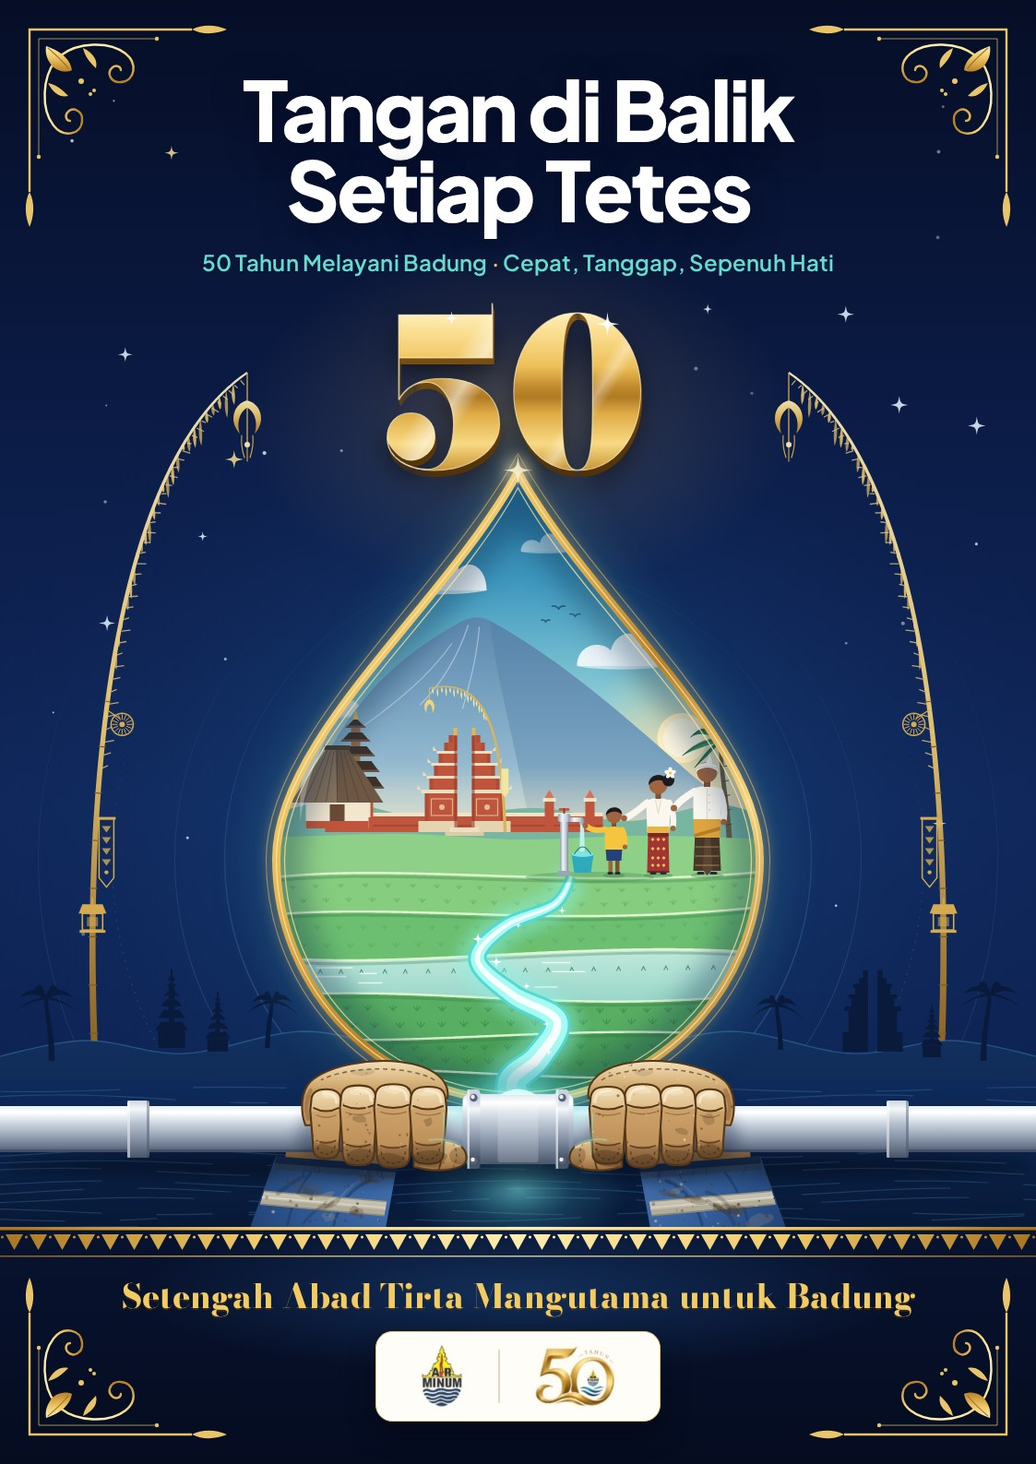
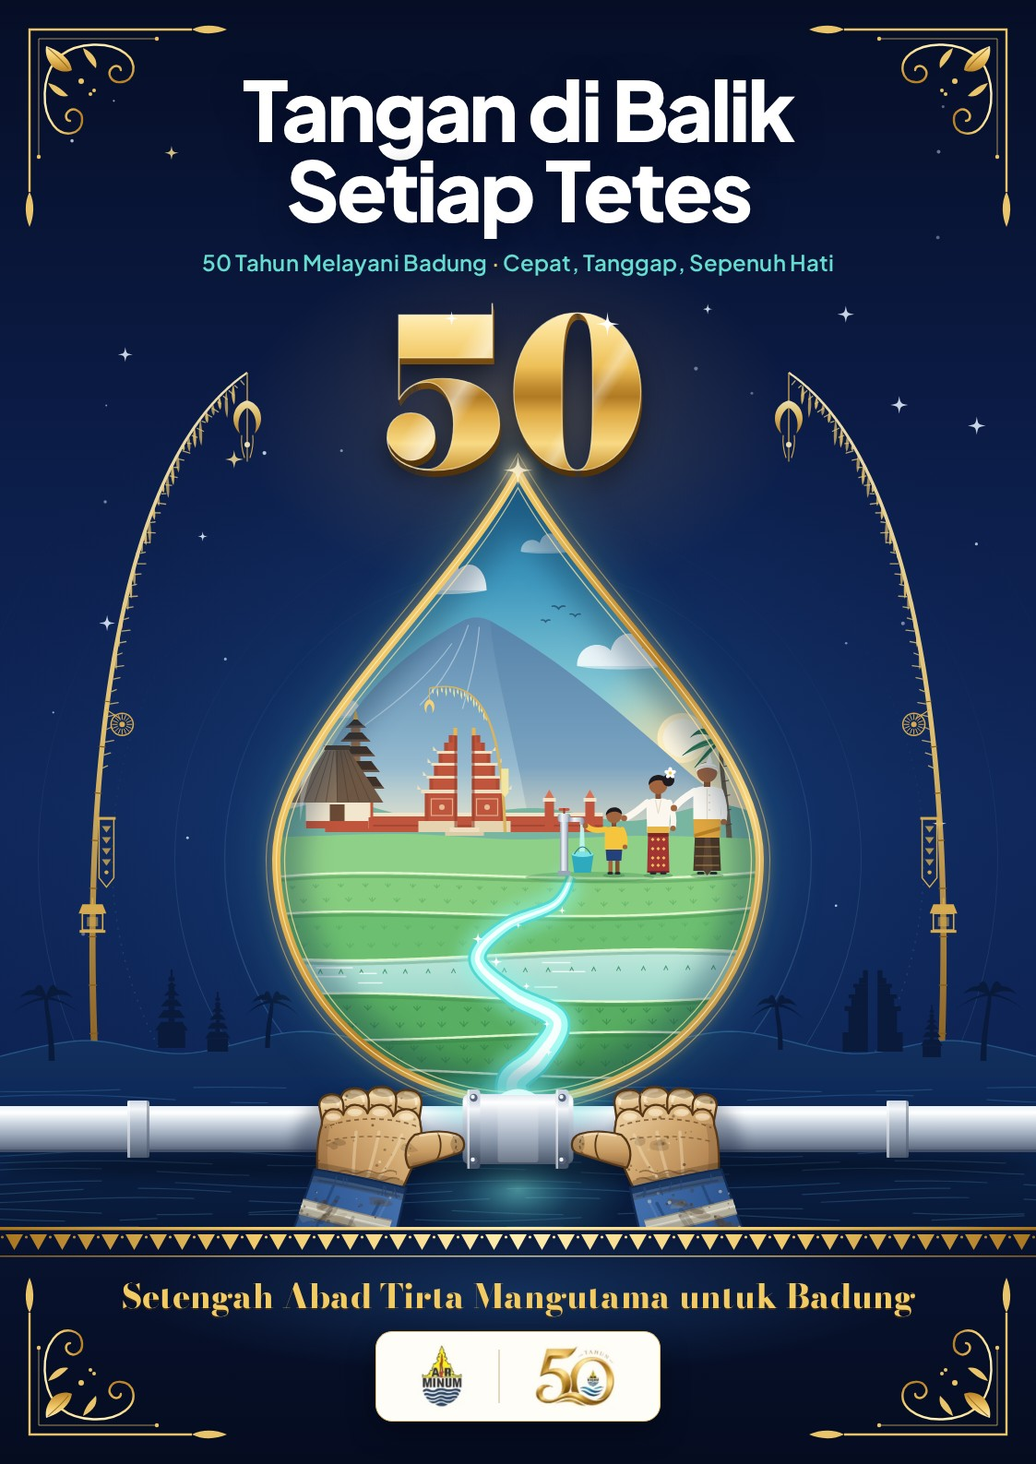
Join the poster's forearms and hands into one limb
The wrists were hidden behind the pipe, so the fists and sleeves read
as separate pieces. The arms now come up in front of the pipe: the
sleeve runs into the glove at the wrist, the back of the hand faces the
viewer, the fingers curl over the top of the pipe and the thumb lies
along it toward the coupling. Hands are slightly larger.

Claude-Session: https://claude.ai/code/session_01WRN3XAMEniDTP2xmXoDQVZ

Changed region(s): [[0.5298, 0.7101, 0.748, 0.8645], [0.2493, 0.7101, 0.4675, 0.8645]]

diff --git a/poster-50-tahun/tools/build-art.js b/poster-50-tahun/tools/build-art.js
@@ -614,11 +614,12 @@ add(`<circle cx="${DROP.cx}" cy="${DROP.tip - 2}" r="14" fill="#FFF1C4" opacity=
 }
 
 // ================================================================ HANDS
-// Pose after the user's grip references: a fist around the pipe seen from the front (knuckles on top, fingers wrapped
-// toward the viewer in three segments, joint lines following the curve of the fingers, thumb tucked under the pipe),
-// forearm dropping behind the pipe. Worn tan leather work gloves and a grimy uniform sleeve.
-// Defined for the hand right of the coupling (thumb toward -x); the left one is mirrored, with its own dirt.
-const HAND = { hx: 152, hs: 1.4 };
+// POV grip, so forearm, wrist and hand read as one limb: the sleeve comes up from the bottom edge, the gloved hand
+// leaves the sleeve at the wrist, the back of the hand faces the viewer, the fingers curl over the top of the pipe
+// (knuckles, finger backs, rounded middle knuckles) and the thumb runs along the pipe toward the coupling.
+// Worn tan leather work gloves, grimy uniform sleeve. Defined for the hand right of the coupling (thumb toward -x);
+// the left one is mirrored with its own dirt.
+const HAND = { hx: 160, hs: 1.55 };
 const LTH = { hi: '#F2DEB8', light: '#E1C18E', mid: '#C99D64', dark: '#9C7143', deep: '#6F4D2A', ink: '#553718', grime: '#5A4330' };
 function blobPath(cx, cy, rx, ry, rnd, k = 9, jit = 0.55, rot = 0) {
   const P = [];
@@ -635,133 +636,123 @@ function blobPath(cx, cy, rx, ry, rnd, k = 9, jit = 0.55, rot = 0) {
   return d + ' Z';
 }
 const PR = PIPE.r / HAND.hs; // pipe edges in the hand's local units
-const SLEEVE_D = 'M-15,28 L79,21 L116,124 L4,132 Z';
-const THUMB_D = `M-28,${n(PR - 8)} C-40,${n(PR - 11)} -53,${n(PR - 10)} -62,${n(PR - 6)} C-70,${n(PR - 2)} -71,${n(PR + 8)} -64,${n(PR + 11)} C-55,${n(PR + 15)} -40,${n(PR + 15)} -28,${n(PR + 11)} Z`;
-const DOME_D = 'M-54,-24 C-56,-37 -44,-49 -18,-52 C8,-55 38,-49 52,-37 C60,-29 60,-13 56,-3 L44,-3 Z';
+// finger backs rising from the knuckles and curling over the pipe: [base x, width, base y, middle-knuckle top y, tilt°]
 const FINGERS = [
-  // cx, width, knuckle top, PIP (top/front edge of the pipe), DIP, tip (tucked under the pipe)
-  [40, 23, -PR - 13, -PR + 3.5, PR - 8, PR + 5],   // pinky
-  [15, 27, -PR - 16, -PR + 1.5, PR - 5, PR + 10],  // ring
-  [-12, 28, -PR - 17, -PR + 1, PR - 4, PR + 12],   // middle
-  [-39, 27, -PR - 15, -PR + 2, PR - 6, PR + 9],    // index
+  [-25, 18.5, -8, -27.5, -5],     // index
+  [-7.5, 19.5, -10, -29.5, -1.5], // middle
+  [10.5, 18.5, -9, -28.5, 2.5],   // ring
+  [26, 15.5, -6, -24.5, 7],       // pinky
 ];
-function fingerPath([cx, w, top, pip, dip, tip]) {
-  const hw = w / 2, tw = hw - 1.2, rt = hw * 0.8, rb = tw * 0.9;
-  return `M${n(cx - hw)},${n(top + rt)} C${n(cx - hw)},${n(top + 2)} ${n(cx - hw + 5)},${n(top)} ${n(cx)},${n(top)} C${n(cx + hw - 5)},${n(top)} ${n(cx + hw)},${n(top + 2)} ${n(cx + hw)},${n(top + rt)} ` +
-    `L${n(cx + hw + 0.8)},${n(pip)} L${n(cx + tw)},${n(dip)} L${n(cx + tw)},${n(tip - rb)} ` +
-    `C${n(cx + tw)},${n(tip - 1)} ${n(cx + tw - 5)},${n(tip)} ${n(cx)},${n(tip)} C${n(cx - tw + 5)},${n(tip)} ${n(cx - tw)},${n(tip - 1)} ${n(cx - tw)},${n(tip - rb)} ` +
-    `L${n(cx - tw)},${n(dip)} L${n(cx - hw - 0.8)},${n(pip)} Z`;
+function fingerD([bx, w, by, top]) {
+  const r = w / 2;
+  return `M${n(bx - r)},${n(by)} L${n(bx - r - 0.6)},${n(top + r)} C${n(bx - r - 0.6)},${n(top + 2)} ${n(bx - r + 4)},${n(top)} ${n(bx)},${n(top)} ` +
+    `C${n(bx + r - 4)},${n(top)} ${n(bx + r + 0.6)},${n(top + 2)} ${n(bx + r + 0.6)},${n(top + r)} L${n(bx + r)},${n(by)} Z`;
 }
+const fingerT = (fg) => `rotate(${fg[4]} ${fg[0]} ${fg[2]})`;
+// back of the hand: knuckle bumps on top, tapering to the wrist, which is set a little outward to meet the forearm
+const BACK_D = 'M-35,-3 C-35,-9 -31,-14 -25,-14 C-20,-14 -17,-11 -16,-9 C-15,-14 -11,-17 -7,-17 C-2,-17 1,-14 2,-11 ' +
+  'C3,-15 7,-17 11,-17 C15,-17 18,-14 19,-10 C20,-13 23,-14 26,-14 C31,-14 34,-9 34,-3 ' +
+  'C38,8 38,24 36,44 L-20,46 C-27,33 -34,16 -35.5,4 C-35.8,1 -35.6,-1 -35,-3 Z';
+const THUMB_D = 'M-31,4 C-41,1.5 -52,1 -60,3.5 C-67,6 -67.5,15 -61,17 C-52,19.5 -40,24 -27,27 C-23,19 -24,10 -31,4 Z';
+// sleeve: frayed hem across the wrist, running down and out along the forearm
+const SLEEVE_D = 'M-25,41 C-8,37 20,31 39,28 C47,52 64,98 84,150 L8,158 C-6,120 -18,74 -25,41 Z';
 defs.push(`<clipPath id="cSleeveL"><path d="${SLEEVE_D}"/></clipPath>`);
-defs.push(`<clipPath id="cFistL"><path d="${DOME_D}"/><path d="${THUMB_D}"/>${FINGERS.map((fg) => `<path d="${fingerPath(fg)}"/>`).join('')}</clipPath>`);
+defs.push(`<clipPath id="cGloveL"><path d="${BACK_D}"/><path d="${THUMB_D}"/>${FINGERS.map((fg) => `<path d="${fingerD(fg)}" transform="${fingerT(fg)}"/>`).join('')}</clipPath>`);
 
 function handParts() {
-  const ink = LTH.ink;
-  // ---- leather glove cuff and the uniform sleeve (behind the pipe)
-  lg('gGloveCuff', [[0, LTH.mid], [1, LTH.dark]], 0, 0, 1, 0);
-  lg('gSleeve', [[0, '#4270AD'], [0.55, '#305A96'], [1, '#213F72']], 0, 0, 1, 0.3);
-  let arm = `<path d="M-6,12 L70,8 L73,34 L-4,38 Z" fill="url(#gGloveCuff)"/>`;
-  arm += `<path d="M-4,30 L71,26" fill="none" stroke="${LTH.deep}" stroke-width="1" stroke-dasharray="2.6 2.2" opacity="0.8"/>`;
-  arm += `<path d="${SLEEVE_D}" fill="url(#gSleeve)"/>`;
-  // fabric folds
-  arm += `<g fill="none" stroke-linecap="round"><path d="M6,40 C22,46 30,58 34,74" stroke="#172F55" stroke-width="2.2" opacity="0.45"/><path d="M52,34 C60,44 66,56 70,74" stroke="#172F55" stroke-width="2" opacity="0.4"/><path d="M10,38 C24,44 32,54 37,68" stroke="#6A8CC0" stroke-width="1.6" opacity="0.35"/></g>`;
-  // dulled reflective band
-  arm += `<path d="M-7,56 L88,48 L91,58 L-5,67 Z" fill="#C4C0AF"/><path d="M-6,61.5 L89.5,53" stroke="#DEDBCD" stroke-width="2"/><path d="M-7,56 L88,48 M-5,67 L91,58" stroke="#8F8B7E" stroke-width="1.1"/>`;
-  // worn, darker hem with loose threads
-  arm += `<path d="M-15,28 L79,21 L79.6,26.5 L-14.4,33.5 Z" fill="#162C50" opacity="0.85"/>`;
+  const ink = LTH.ink, g = [];
+  defs.push(`<linearGradient id="gBackHand" gradientUnits="userSpaceOnUse" x1="-34" y1="-16" x2="30" y2="44"><stop offset="0" stop-color="#EDD3A6"/><stop offset="0.45" stop-color="#D1A871"/><stop offset="0.8" stop-color="#B78956"/><stop offset="1" stop-color="#94693D"/></linearGradient>`);
+  defs.push(`<linearGradient id="gFingerBack" gradientUnits="userSpaceOnUse" x1="0" y1="-36" x2="0" y2="-6"><stop offset="0" stop-color="#F3DFBA"/><stop offset="0.35" stop-color="#E0BF8B"/><stop offset="1" stop-color="#C39862"/></linearGradient>`);
+  defs.push(`<linearGradient id="gThumbB" gradientUnits="userSpaceOnUse" x1="0" y1="0" x2="0" y2="28"><stop offset="0" stop-color="#E8CA98"/><stop offset="0.55" stop-color="#C99D64"/><stop offset="1" stop-color="#94693D"/></linearGradient>`);
+  lg('gSleeve', [[0, '#4673B0'], [0.5, '#325C98'], [1, '#203F72']], 0, 0, 1, 0.25);
 
-  // ---- fist (in front of the pipe)
-  const f = [];
-  defs.push(`<linearGradient id="gDome" gradientUnits="userSpaceOnUse" x1="0" y1="-52" x2="0" y2="-26"><stop offset="0" stop-color="${LTH.hi}"/><stop offset="0.55" stop-color="#D9B77F"/><stop offset="1" stop-color="#C0925B"/></linearGradient>`);
-  defs.push(`<linearGradient id="gThumbF" gradientUnits="userSpaceOnUse" x1="0" y1="${n(PR - 10)}" x2="0" y2="${n(PR + 16)}"><stop offset="0" stop-color="#E3C491"/><stop offset="0.55" stop-color="#C39760"/><stop offset="1" stop-color="#8A6038"/></linearGradient>`);
-  f.push(`<path d="${DOME_D}" fill="url(#gDome)" stroke="${ink}" stroke-width="1.5" stroke-linejoin="round"/>`);
-  f.push(`<path d="M-44,-38 C-26,-49 20,-50 44,-38" fill="none" stroke="${LTH.deep}" stroke-width="1.1" stroke-dasharray="3.5 2.8" opacity="0.8"/>`);
-  f.push(`<path d="M52,-30 C56,-22 56,-14 54,-8" fill="none" stroke="${LTH.deep}" stroke-width="3" stroke-linecap="round" opacity="0.35"/>`);
-  // thumb tucked under the pipe; its tip shows below the index finger, pointing at the coupling
-  const ty = PR;
-  f.push(`<path d="${THUMB_D}" fill="url(#gThumbF)" stroke="${ink}" stroke-width="1.5" stroke-linejoin="round"/>`);
-  f.push(`<path d="M-30,${n(ty - 7)} C-34,${n(ty - 2)} -34,${n(ty + 6)} -30,${n(ty + 10)}" fill="none" stroke="${LTH.deep}" stroke-width="5" stroke-linecap="round" opacity="0.35"/>`);
-  f.push(`<path d="M-47,${n(ty - 10)} C-50,${n(ty - 4)} -50,${n(ty + 7)} -47,${n(ty + 14)}" fill="none" stroke="${ink}" stroke-width="1.2" stroke-linecap="round"/>`);
-  f.push(`<path d="M-58,${n(ty - 7)} C-62,${n(ty - 2)} -62,${n(ty + 7)} -58,${n(ty + 12)}" fill="none" stroke="${LTH.deep}" stroke-width="1" stroke-dasharray="2.4 2" opacity="0.8"/>`);
-  f.push(`<path d="M-34,${n(ty - 8)} C-45,${n(ty - 10)} -56,${n(ty - 9)} -64,${n(ty - 4)}" fill="none" stroke="#FBEBCB" stroke-width="1.8" stroke-linecap="round" opacity="0.6"/>`);
-  // fingers: top segment over the pipe, middle segment on its face, tip curling under (grimiest)
+  // fingers (drawn first; the knuckles of the hand overlap their bases)
   FINGERS.forEach((fg, i) => {
-    const [cx, w, top, pip, dip, tip] = fg;
-    const id = 'gFg' + i;
-    const t = (y) => n((y - top) / (tip - top));
-    defs.push(`<linearGradient id="${id}" gradientUnits="userSpaceOnUse" x1="0" y1="${top}" x2="0" y2="${tip}">` +
-      `<stop offset="0" stop-color="#F3DFBA"/><stop offset="${t(pip - 1.5)}" stop-color="#E0C08C"/>` +
-      `<stop offset="${t(pip + 1)}" stop-color="#CDA26A"/><stop offset="${t(dip - 1.5)}" stop-color="#BE915A"/>` +
-      `<stop offset="${t(dip + 1)}" stop-color="#9E7447"/><stop offset="1" stop-color="#6E4D2C"/></linearGradient>`);
-    const hw = w / 2, tw = hw - 1.2, rt = hw * 0.8;
-    f.push(`<path d="${fingerPath(fg)}" fill="url(#${id})" stroke="${ink}" stroke-width="1.5" stroke-linejoin="round"/>`);
-    // joint creases follow each finger's curve, so across the fist they form an arc rather than parallel lines
-    f.push(`<path d="M${n(cx - hw + 2)},${n(pip - 2)} Q${n(cx)},${n(pip + 3)} ${n(cx + hw - 2)},${n(pip - 2)}" fill="none" stroke="${ink}" stroke-width="1.4" stroke-linecap="round"/>`);
-    f.push(`<path d="M${n(cx - hw + 4)},${n(pip + 3.5)} Q${n(cx)},${n(pip + 7)} ${n(cx + hw - 4)},${n(pip + 3.5)}" fill="none" stroke="${LTH.deep}" stroke-width="0.9" stroke-linecap="round" opacity="0.55"/>`);
-    f.push(`<path d="M${n(cx - tw + 3)},${n(dip - 1)} Q${n(cx)},${n(dip + 2.5)} ${n(cx + tw - 3)},${n(dip - 1)}" fill="none" stroke="${ink}" stroke-width="1.2" stroke-linecap="round" opacity="0.85"/>`);
-    // leather sheen on the knuckle (matte, so softer than before) and a fingertip seam
-    f.push(`<path d="M${n(cx - hw + 3.5)},${n(top + rt + 1)} C${n(cx - hw + 3.5)},${n(top + 4)} ${n(cx - 3)},${n(top + 2.8)} ${n(cx + 2)},${n(top + 2.8)}" fill="none" stroke="#FFF4DC" stroke-width="2.2" stroke-linecap="round" opacity="0.6"/>`);
-    f.push(`<path d="M${n(cx - tw + 3.5)},${n(tip - tw * 0.9 - 1)} A${n(tw - 3.5)},${n(tw - 3.5)} 0 0 0 ${n(cx + tw - 3.5)},${n(tip - tw * 0.9 - 1)}" fill="none" stroke="#4A3016" stroke-width="1" stroke-dasharray="2.4 2" opacity="0.75"/>`);
+    const [bx, w, by, top] = fg, r = w / 2;
+    const t = (y) => n((y - top) / (by - top));
+    defs.push(`<linearGradient id="gFb${i}" gradientUnits="userSpaceOnUse" x1="0" y1="${top}" x2="0" y2="${by}"><stop offset="0" stop-color="#A97D4B"/><stop offset="${t(top + 3)}" stop-color="#D9B780"/><stop offset="${t(top + 6)}" stop-color="#F1DBB2"/><stop offset="${t(top + 11)}" stop-color="#DDBA86"/><stop offset="1" stop-color="#C39862"/></linearGradient>`);
+    g.push(`<g transform="${fingerT(fg)}">` +
+      `<path d="${fingerD(fg)}" fill="url(#gFb${i})" stroke="${ink}" stroke-width="1.5" stroke-linejoin="round"/>` +
+      // middle-knuckle wrinkles and the soft light on the knuckle itself
+      `<path d="M${n(bx - r + 3)},${n(top + r + 3)} Q${n(bx)},${n(top + r + 6.5)} ${n(bx + r - 3)},${n(top + r + 3)}" fill="none" stroke="${ink}" stroke-width="1.2" stroke-linecap="round" opacity="0.85"/>` +
+      `<path d="M${n(bx - r + 4.5)},${n(top + r + 6.5)} Q${n(bx)},${n(top + r + 9)} ${n(bx + r - 4.5)},${n(top + r + 6.5)}" fill="none" stroke="${LTH.deep}" stroke-width="0.9" stroke-linecap="round" opacity="0.55"/>` +
+      `<path d="M${n(bx - r + 3)},${n(top + r)} C${n(bx - r + 3)},${n(top + 3.5)} ${n(bx - 2)},${n(top + 2.5)} ${n(bx + 2)},${n(top + 2.5)}" fill="none" stroke="#FFF4DC" stroke-width="2" stroke-linecap="round" opacity="0.6"/>` +
+      `</g>`);
   });
-  // cool rim light from the coupling glow on the inner edges
-  f.push(`<path d="M-51,-12 L-52,${n(PR + 2)}" stroke="#8FF3EA" stroke-width="1.6" stroke-linecap="round" opacity="0.35"/><path d="M-40,${n(PR - 9.5)} C-50,${n(PR - 11)} -58,${n(PR - 9)} -64,${n(PR - 5.5)}" fill="none" stroke="#8FF3EA" stroke-width="1.4" stroke-linecap="round" opacity="0.4"/>`);
-  return { arm, fist: f.join('') };
+  // back of the hand
+  g.push(`<path d="${BACK_D}" fill="url(#gBackHand)" stroke="${ink}" stroke-width="1.5" stroke-linejoin="round"/>`);
+  // knuckle light, knuckle seam, tendon ridges, shade toward the pinky side
+  [[-25, -11], [-7, -14], [11, -14], [26, -11]].forEach(([x, y]) => g.push(`<ellipse cx="${x}" cy="${y + 2.5}" rx="5.2" ry="2.6" fill="#FBEACB" opacity="0.55"/>`));
+  g.push(`<path d="M-32,-2 C-14,-9 14,-9 32,-1" fill="none" stroke="${LTH.deep}" stroke-width="1.1" stroke-dasharray="3.2 2.6" opacity="0.8"/>`);
+  g.push(`<g fill="none" stroke="#F6E3BE" stroke-width="2.2" stroke-linecap="round" opacity="0.4"><path d="M-22,4 C-18,16 -12,26 -6,34"/><path d="M-6,2 C-4,14 -1,24 2,34"/><path d="M10,2 C11,14 12,24 12,34"/></g>`);
+  g.push(`<path d="M34,-3 C38,8 38,24 36,44 L27,44 C31,26 31,10 28,-4 Z" fill="${LTH.deep}" opacity="0.25"/>`);
+  // back panel seam and wrist shirring where the glove tucks into the sleeve
+  g.push(`<path d="M-30,8 C-12,4 16,4 33,9" fill="none" stroke="${LTH.deep}" stroke-width="1" stroke-dasharray="3.2 2.6" opacity="0.65"/>`);
+  g.push(`<g fill="none" stroke="${LTH.deep}" stroke-width="1.1" stroke-linecap="round" opacity="0.6"><path d="M-18,30 q4,-2 8,0 t8,0 t8,0 t8,0 t8,0 t8,-1"/><path d="M-20,35 q4,-2 8,0 t8,0 t8,0 t8,0 t8,0 t8,-1 t6,-1"/></g>`);
+  // thumb along the pipe, pointing at the coupling
+  g.push(`<path d="${THUMB_D}" fill="url(#gThumbB)" stroke="${ink}" stroke-width="1.5" stroke-linejoin="round"/>`);
+  g.push(`<path d="M-47,2.5 C-50,8 -50,16 -46,22" fill="none" stroke="${ink}" stroke-width="1.2" stroke-linecap="round"/>`);
+  g.push(`<path d="M-57,3.5 C-61,8 -61,13.5 -57.5,17.5" fill="none" stroke="${LTH.deep}" stroke-width="1" stroke-dasharray="2.4 2" opacity="0.8"/>`);
+  g.push(`<path d="M-35,4.5 C-45,2.5 -54,2.5 -61,5.5" fill="none" stroke="#FBEBCB" stroke-width="1.8" stroke-linecap="round" opacity="0.6"/>`);
+  g.push(`<path d="M-30,24.5 C-42,22.5 -52,19.5 -59,17" fill="none" stroke="${LTH.deep}" stroke-width="2" stroke-linecap="round" opacity="0.35"/>`);
+  // shadow the sleeve casts on the glove just above the hem
+  g.push(`<path d="M-24,40 C-8,36 20,30 38,27 L38.5,23 C20,26 -8,32 -23,36 Z" fill="#3B2814" opacity="0.28"/>`);
+  const glove = g.join('');
+
+  // sleeve
+  let sl = `<path d="${SLEEVE_D}" fill="url(#gSleeve)" stroke="#132A4E" stroke-width="1.5" stroke-linejoin="round"/>`;
+  sl += `<g fill="none" stroke-linecap="round"><path d="M-6,52 C4,70 12,90 18,112" stroke="#15305A" stroke-width="2.2" opacity="0.45"/><path d="M26,40 C36,62 44,86 50,108" stroke="#15305A" stroke-width="2" opacity="0.4"/><path d="M-12,50 C-2,68 5,86 10,104" stroke="#6E90C4" stroke-width="1.6" opacity="0.35"/><path d="M-20,47 C-6,44 18,39 36,36" stroke="#15305A" stroke-width="1.6" opacity="0.4"/></g>`;
+  // dulled reflective band wrapping the sleeve
+  sl += `<path d="M-15,64 C4,60 28,54 47,49 L50,59 C31,64 7,70 -12,74 Z" fill="#C4C0AF"/><path d="M-13.5,69 C5,65 29,59 48.5,54" fill="none" stroke="#DEDBCD" stroke-width="1.8"/><path d="M-15,64 C4,60 28,54 47,49 M-12,74 C7,70 31,64 50,59" fill="none" stroke="#8F8B7E" stroke-width="1.1"/>`;
+  // worn, darker hem edge
+  sl += `<path d="M-25,41 C-8,37 20,31 39,28 L40,32.5 C21,35.5 -7,41.5 -24,45.5 Z" fill="#132A4E" opacity="0.8"/>`;
+  return { glove, sleeve: sl };
 }
 const HANDPARTS = handParts();
 
 // dirt differs per hand so the mirrored pair doesn't look stamped
 function handDirt(seed) {
   const r = rng(seed);
-  // sleeve: mud and dust smudges, grease marks, speckles, loose threads at the hem
+  // sleeve: mud and dust smudges, grease streaks, speckles, loose threads at the hem
   let a = '';
   for (let i = 0; i < 6; i++) {
-    const cx = lerp(-2, 86, r()), cy = lerp(36, 74, r());
+    const t = r(), u = r();
+    const cx = lerp(-14, 40, u) + t * 30, cy = lerp(48, 78, t);
     const rx = 4 + r() * 7, ry = 2.5 + r() * 4, rot = (r() - 0.5) * 1.2;
     const col = r() < 0.7 ? '#5B4631' : '#A5977E';
     a += `<path d="${blobPath(cx, cy, rx, ry, r, 9, 0.6, rot)}" fill="${col}" opacity="${n(0.22 + r() * 0.16)}"/>`;
     if (col === '#5B4631') a += `<path d="${blobPath(cx + (r() - 0.5) * 3, cy + (r() - 0.5) * 2, rx * 0.5, ry * 0.5, r, 8, 0.6, rot)}" fill="#4A3826" opacity="${n(0.25 + r() * 0.15)}"/>`;
   }
   for (let i = 0; i < 2; i++) {
-    const x0 = lerp(0, 70, r()), y0 = lerp(34, 60, r());
-    a += `<path d="M${n(x0)},${n(y0)} c${n(6 + r() * 6)},${n(2 + r() * 3)} ${n(12 + r() * 6)},${n(6 + r() * 4)} ${n(16 + r() * 8)},${n(12 + r() * 6)}" fill="none" stroke="#1E1C20" stroke-width="${n(2 + r() * 1.5)}" stroke-linecap="round" opacity="0.22"/>`;
+    const x0 = lerp(-12, 30, r()), y0 = lerp(46, 64, r());
+    a += `<path d="M${n(x0)},${n(y0)} c${n(3 + r() * 4)},${n(5 + r() * 3)} ${n(7 + r() * 4)},${n(10 + r() * 4)} ${n(9 + r() * 6)},${n(16 + r() * 6)}" fill="none" stroke="#1E1C20" stroke-width="${n(2 + r() * 1.5)}" stroke-linecap="round" opacity="0.22"/>`;
   }
-  for (let i = 0; i < 34; i++) a += `<circle cx="${n(lerp(-6, 92, r()))}" cy="${n(lerp(32, 76, r()))}" r="${n(0.4 + r() * 1.1)}" fill="${r() < 0.7 ? '#4A3826' : '#CFC4AE'}" opacity="${n(0.3 + r() * 0.4)}"/>`;
-  // grime along the band edges and at the hem
-  a += `<path d="M-6,61 L89,53 L91,58 L-5,67 Z" fill="#6B5A43" opacity="0.2"/>`;
-  a += `<path d="M-14,33 L79.5,26 L80,31 L-13.5,38.5 Z" fill="#3F3122" opacity="0.28"/>`;
+  for (let i = 0; i < 34; i++) { const t = r(); a += `<circle cx="${n(lerp(-20, 44, r()) + t * 30)}" cy="${n(lerp(42, 80, t))}" r="${n(0.4 + r() * 1.1)}" fill="${r() < 0.7 ? '#4A3826' : '#CFC4AE'}" opacity="${n(0.3 + r() * 0.4)}"/>`; }
+  a += `<path d="M-13.5,69 C5,65 29,59 48.5,54 L50,59 C31,64 7,70 -12,74 Z" fill="#6B5A43" opacity="0.2"/>`;
+  a += `<path d="M-24,45.5 C-7,41.5 21,35.5 40,32.5 L41,37 C22,40 -6,46 -23,50 Z" fill="#3F3122" opacity="0.28"/>`;
   let threads = '';
   for (let i = 0; i < 6; i++) {
-    const x = lerp(-10, 74, r()), y = 33.5 - (x + 15) * (7 / 94);
-    threads += `<path d="M${n(x)},${n(y)} q${n((r() - 0.5) * 3)},${n(2 + r() * 2)} ${n((r() - 0.5) * 4)},${n(4 + r() * 3)}" />`;
+    const t = r(), x = lerp(-22, 36, t), y = lerp(40.5, 29, t) + 2;
+    threads += `<path d="M${n(x)},${n(y)} q${n((r() - 0.5) * 3)},${n(2 + r() * 2)} ${n((r() - 0.5) * 4)},${n(4 + r() * 3)}"/>`;
   }
-  const arm = `<g clip-path="url(#cSleeveL)">${a}</g><g fill="none" stroke="#2A4674" stroke-width="0.9" stroke-linecap="round" opacity="0.9">${threads}</g>`;
+  const sleeve = `<g clip-path="url(#cSleeveL)">${a}</g><g fill="none" stroke="#2A4674" stroke-width="0.9" stroke-linecap="round" opacity="0.9">${threads}</g>`;
 
-  // glove: grime on the fingertips and thumb tip, a couple of small stains, scuffed knuckles, leather grain
+  // glove: grime on the knuckles and finger tops, thumb tip, a couple of stains, leather grain
   let g = '';
-  FINGERS.forEach(([cx, w, top, pip, dip, tip]) => {
-    g += `<path d="${blobPath(cx + (r() - 0.5) * 4, tip - 4, w * 0.46, 6 + r() * 2, r, 9, 0.35)}" fill="#3F2C18" opacity="${n(0.22 + r() * 0.12)}"/>`;
+  FINGERS.forEach(([bx, w, by, top, tilt]) => {
+    g += `<g transform="rotate(${tilt} ${bx} ${by})"><path d="${blobPath(bx + (r() - 0.5) * 3, top + 2.5, w * 0.48, 3.5 + r() * 1.5, r, 9, 0.35)}" fill="#3F2C18" opacity="${n(0.2 + r() * 0.1)}"/></g>`;
   });
-  g += `<path d="${blobPath(-64, PR + 3, 8, 7, r, 8, 0.35)}" fill="#3F2C18" opacity="0.26"/>`;
-  for (let i = 0; i < 2; i++) {
-    const fg = FINGERS[Math.floor(r() * 4)];
-    g += `<path d="${blobPath(fg[0] + (r() - 0.5) * 8, lerp(fg[3] + 6, fg[4] - 2, r()), 3 + r() * 3, 2 + r() * 2, r, 8, 0.6, r() - 0.5)}" fill="#4E3923" opacity="${n(0.2 + r() * 0.1)}"/>`;
-  }
-  g += `<path d="${blobPath(lerp(-30, 26, r()), -44, 8 + r() * 5, 2.5, r, 8, 0.5)}" fill="#4E3923" opacity="0.14"/>`;
-  FINGERS.forEach(([cx, w, top]) => {
-    g += `<path d="${blobPath(cx - 1 + (r() - 0.5) * 3, top + 5, w * 0.26, 2.2, r, 7, 0.5)}" fill="#FBEFD3" opacity="${n(0.3 + r() * 0.15)}"/>`;
-  });
-  for (let i = 0; i < 46; i++) g += `<circle cx="${n(lerp(-70, 58, r()))}" cy="${n(lerp(-52, PR + 14, r()))}" r="${n(0.35 + r() * 0.8)}" fill="${r() < 0.75 ? '#4A3218' : '#F6E6C6'}" opacity="${n(0.25 + r() * 0.35)}"/>`;
-  const fist = `<g clip-path="url(#cFistL)">${g}</g>`;
-  return { arm, fist };
+  g += `<path d="${blobPath(-62, 10.5, 5.5, 7, r, 8, 0.35)}" fill="#3F2C18" opacity="0.26"/>`;
+  for (let i = 0; i < 3; i++) g += `<path d="${blobPath(lerp(-28, 28, r()), lerp(-4, 28, r()), 3 + r() * 4, 2 + r() * 2.5, r, 8, 0.6, r() - 0.5)}" fill="#4E3923" opacity="${n(0.16 + r() * 0.12)}"/>`;
+  [[-25, -10], [-7, -13], [11, -13], [26, -10]].forEach(([x, y]) => { g += `<path d="${blobPath(x + (r() - 0.5) * 3, y + 1, 4.5, 2, r, 7, 0.5)}" fill="#FBEFD3" opacity="${n(0.25 + r() * 0.15)}"/>`; });
+  for (let i = 0; i < 46; i++) g += `<circle cx="${n(lerp(-68, 38, r()))}" cy="${n(lerp(-36, 44, r()))}" r="${n(0.35 + r() * 0.8)}" fill="${r() < 0.75 ? '#4A3218' : '#F6E6C6'}" opacity="${n(0.25 + r() * 0.35)}"/>`;
+  const glove = `<g clip-path="url(#cGloveL)">${g}</g>`;
+  return { sleeve, glove };
 }
 const DIRT_R = handDirt(311), DIRT_L = handDirt(577);
 
 // ================================================================ PIPE + COUPLING
 {
-  // forearms reach up behind the pipe
-  add(`<g clip-path="url(#cAboveBand)">` +
-    `<g transform="translate(${n(CX + HAND.hx)},${PIPE.y}) scale(${HAND.hs})">${HANDPARTS.arm}${DIRT_R.arm}</g>` +
-    `<g transform="translate(${n(CX - HAND.hx)},${PIPE.y}) scale(${-HAND.hs},${HAND.hs})">${HANDPARTS.arm}${DIRT_L.arm}</g></g>`);
   const y0 = PIPE.y - PIPE.r, h = PIPE.r * 2;
   add(`<ellipse cx="${CX}" cy="${PIPE.y + 40}" rx="560" ry="16" fill="#000" opacity="0.35" filter="url(#b8)"/>`);
   defs.push(`<linearGradient id="gPipe" gradientUnits="userSpaceOnUse" x1="0" y1="${y0}" x2="0" y2="${y0 + h}"><stop offset="0" stop-color="#E9F0F7"/><stop offset="0.14" stop-color="#FFFFFF"/><stop offset="0.34" stop-color="#D3DCE6"/><stop offset="0.62" stop-color="#9DAABB"/><stop offset="0.86" stop-color="#6D7A8F"/><stop offset="1" stop-color="#4D596C"/></linearGradient>`);
@@ -785,14 +776,15 @@ const DIRT_R = handDirt(311), DIRT_L = handDirt(577);
 }
 
 
-// fists gripping the pipe on both sides of the coupling
+// hands gripping the pipe on both sides of the coupling: sleeve, glove and thumb as one limb in front of the pipe
 {
   const { hx, hs } = HAND;
+  const limb = (d) => `${HANDPARTS.glove}${d.glove}${HANDPARTS.sleeve}${d.sleeve}`;
   add(`<g clip-path="url(#cAboveBand)">` +
-    `<ellipse cx="${n(CX + hx + 6)}" cy="${PIPE.y + 10}" rx="${n(58 * hs)}" ry="${n(34 * hs)}" fill="#0A1633" opacity="0.32" filter="url(#b8)"/>` +
-    `<ellipse cx="${n(CX - hx - 6)}" cy="${PIPE.y + 10}" rx="${n(58 * hs)}" ry="${n(34 * hs)}" fill="#0A1633" opacity="0.32" filter="url(#b8)"/>` +
-    `<g transform="translate(${n(CX + hx)},${PIPE.y}) scale(${hs})">${HANDPARTS.fist}${DIRT_R.fist}</g>` +
-    `<g transform="translate(${n(CX - hx)},${PIPE.y}) scale(${-hs},${hs})">${HANDPARTS.fist}${DIRT_L.fist}</g>` +
+    `<ellipse cx="${n(CX + hx + 14)}" cy="${PIPE.y + 16}" rx="${n(44 * hs)}" ry="${n(36 * hs)}" fill="#0A1633" opacity="0.32" filter="url(#b8)"/>` +
+    `<ellipse cx="${n(CX - hx - 14)}" cy="${PIPE.y + 16}" rx="${n(44 * hs)}" ry="${n(36 * hs)}" fill="#0A1633" opacity="0.32" filter="url(#b8)"/>` +
+    `<g transform="translate(${n(CX + hx)},${PIPE.y}) scale(${hs})">${limb(DIRT_R)}</g>` +
+    `<g transform="translate(${n(CX - hx)},${PIPE.y}) scale(${-hs},${hs})">${limb(DIRT_L)}</g>` +
     `</g>`);
 }
 
